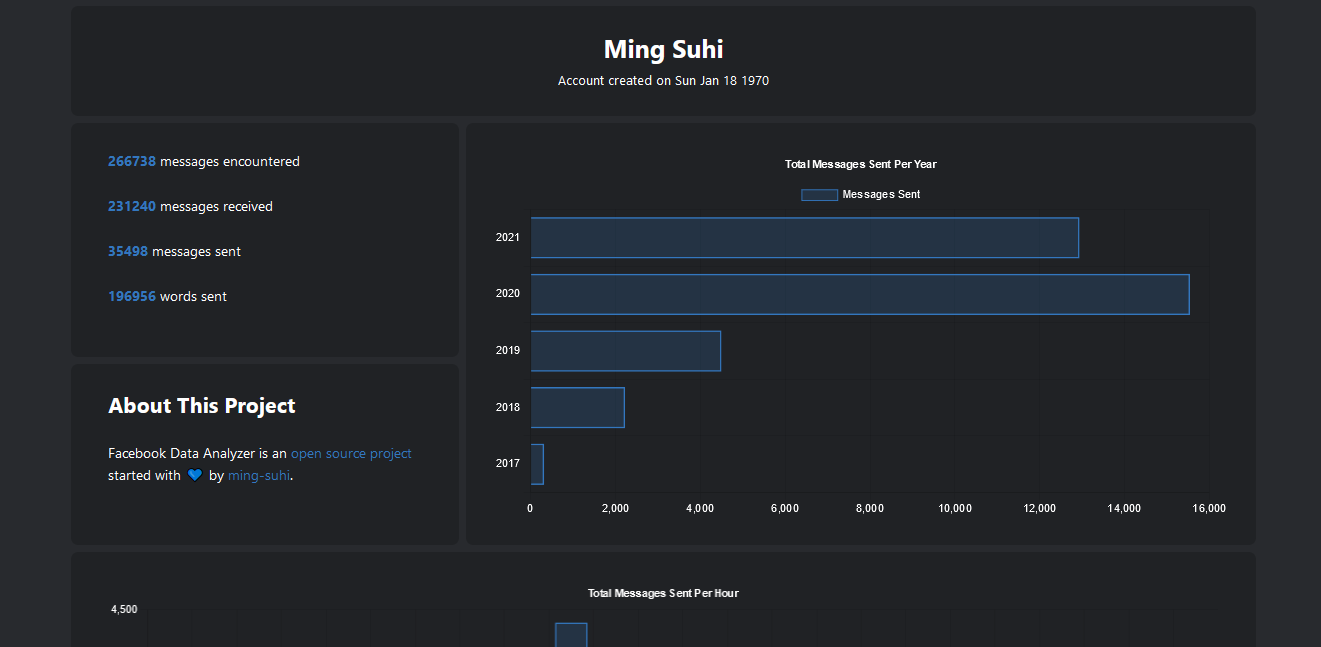
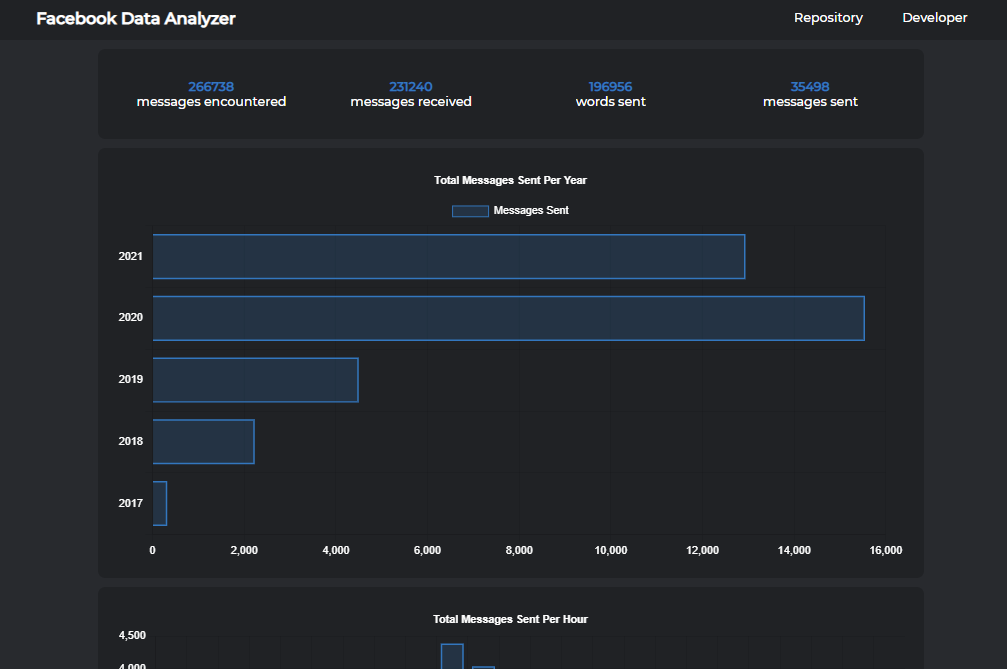
Feature: Update Assets

diff --git a/src/server.js b/src/server.js
@@ -1,6 +1,5 @@
 const express = require('express');
 const dotenv = require('dotenv');
-const userRouter = require('./routes/user');
 const messagesRouter = require('./routes/messages');
 const channelsRouter = require('./routes/channels');
 const wordsRouter = require('./routes/words');
@@ -29,7 +28,6 @@ app.get('/', (req, res) => {
 });
 
 // Attach routes
-app.use('/', userRouter);
 app.use('/', messagesRouter);
 app.use('/', channelsRouter);
 app.use('/', wordsRouter);

diff --git a/src/client.js b/src/client.js
@@ -16,7 +16,6 @@ class Client {
     var profile = require(resolve(process.env.CATALOG_DIRECTORY, 'profile_information/profile_information.json'));
     var profile = profile[Object.keys(profile)[0]];
     this.name = profile.name.full_name;
-    this.registeredDate = new Date(profile.registration_timestamp).toDateString();
 
     // Create inbox instance
     this.inbox = new Inbox(resolve(process.env.CATALOG_DIRECTORY, 'messages/inbox'));

diff --git a/README.md b/README.md
@@ -7,8 +7,6 @@ Take a peek to what have been your Facebook Messenger life
 
 # Features
 Listed below are the current project features and may change in the future. Make sure to ⭐ star this repo to be able to get back to it later and or press that `watch` button to be updated of new changes.
-- Account full name
-- Account registered date
 - Messages encountered
 - Messages sent
 - Messages received
@@ -30,7 +28,7 @@ A. Downloading your data from Facebook
 3. View `Download Your Information`
 4. Select `All time` for `Date Range`
 5. Select `JSON` for `Format`
-6. Make sure `Messages` is checked for `Your Activity Across Facebook`
+6. Make sure `Messages` and `Profile Information` is checked for `Your Activity Across Facebook`
 7. Press `Create File`
 8. Wait for email from Facebook containing download link
 9. Download the zip file through the provided link
